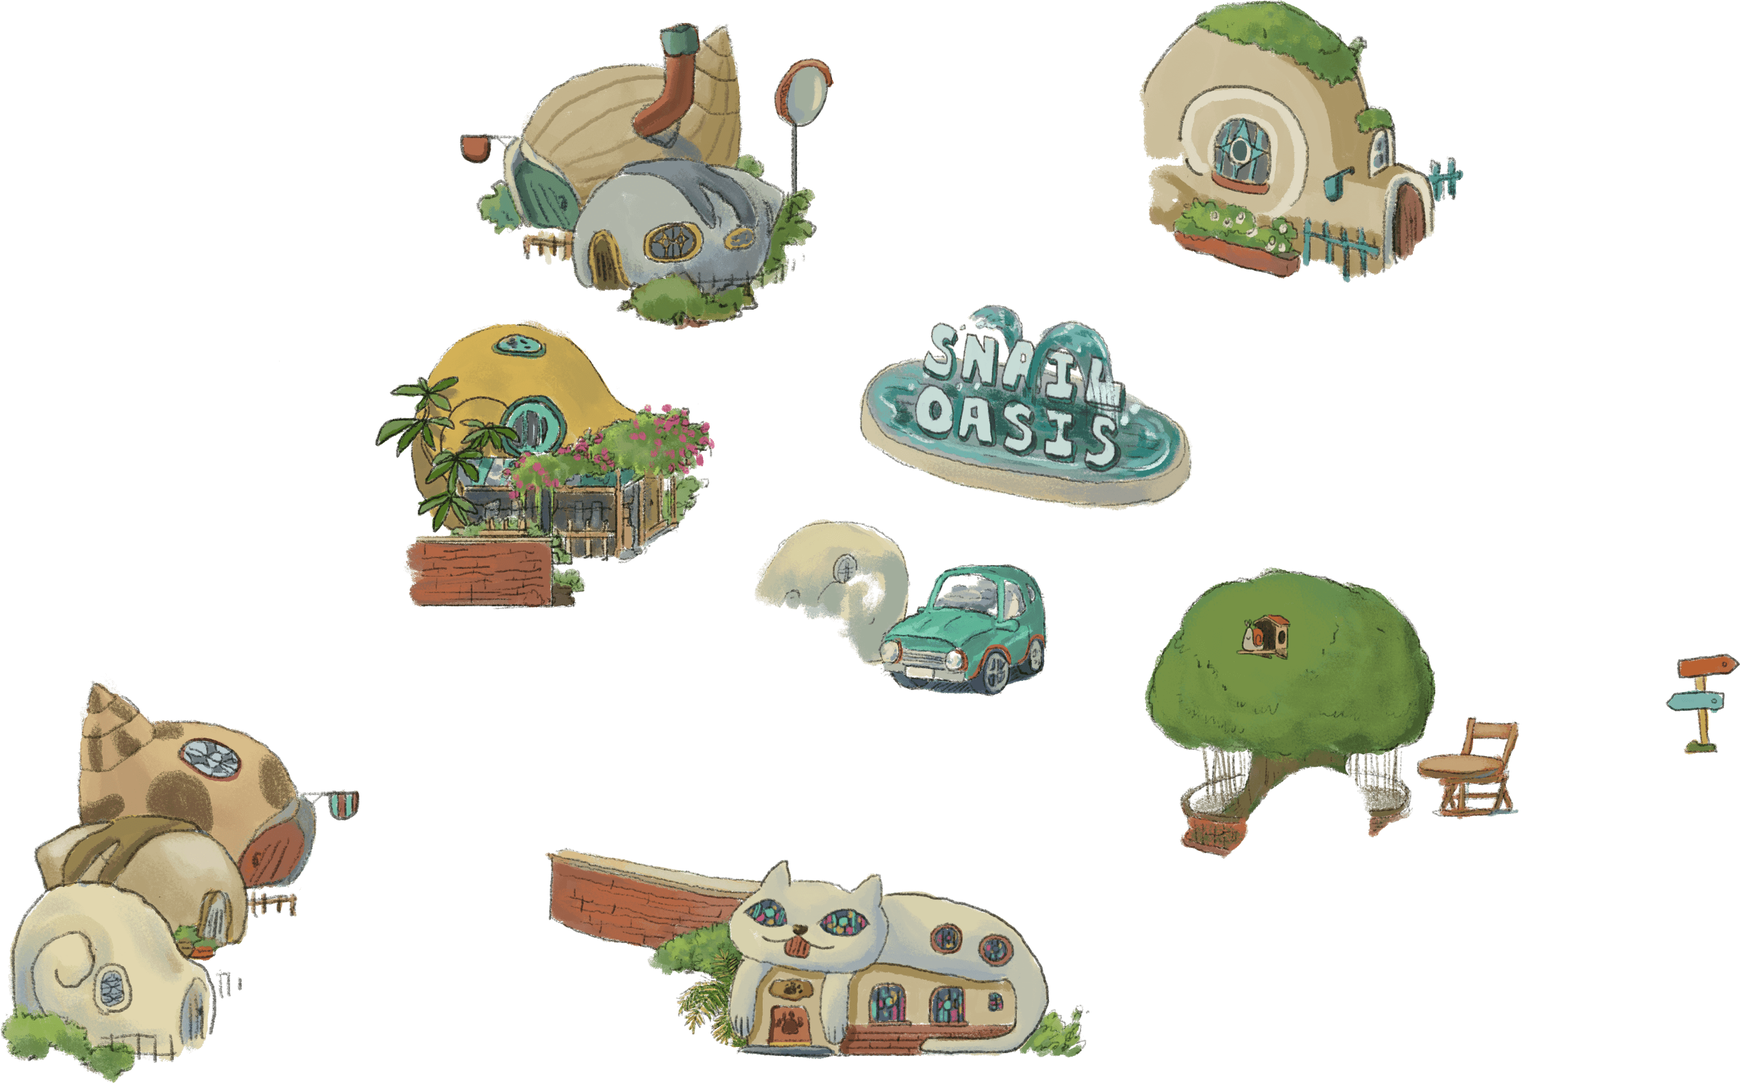
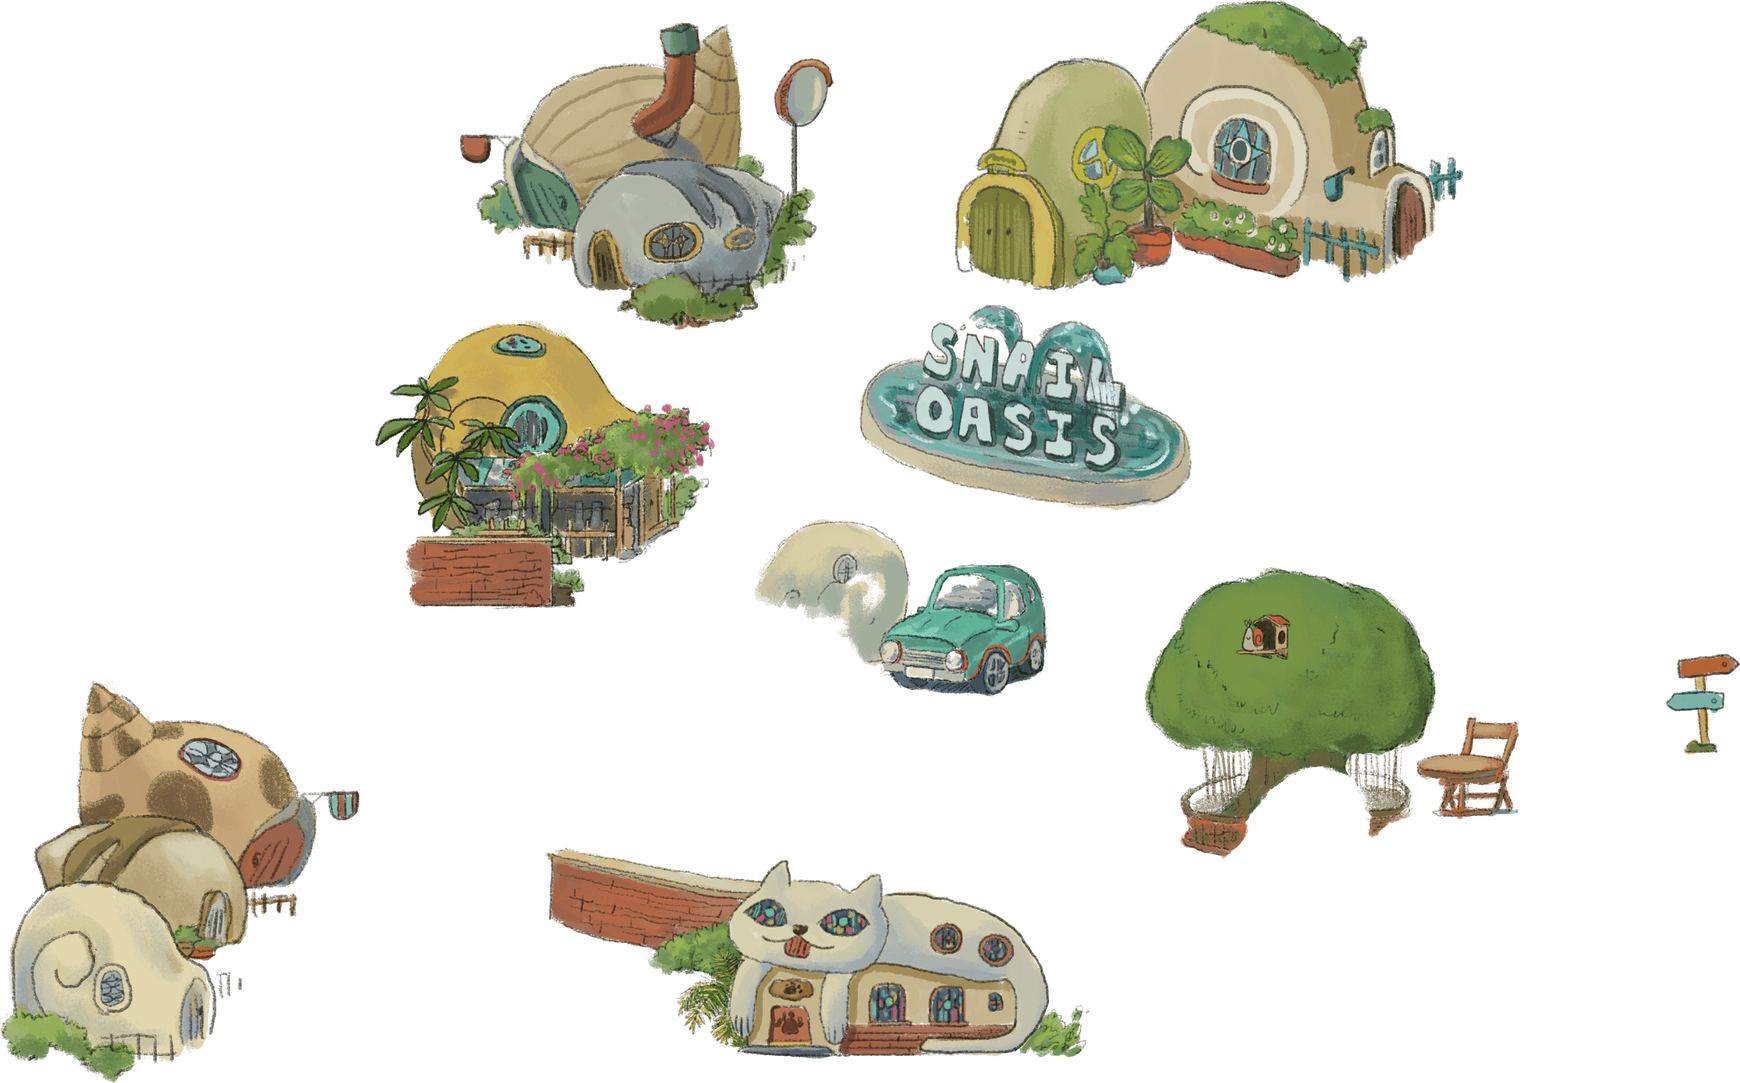
add bookstore, adjust position

Changed region(s): [[0.527, 0.0312, 0.6821, 0.2812]]

diff --git a/dist/main.js b/dist/main.js
@@ -355,7 +355,7 @@ eval("__webpack_require__.r(__webpack_exports__);\n// extracted by mini-css-extr
 /***/ ((__unused_webpack___webpack_module__, __webpack_exports__, __webpack_require__) => {
 
 "use strict";
-eval("__webpack_require__.r(__webpack_exports__);\n/* harmony export */ __webpack_require__.d(__webpack_exports__, {\n/* harmony export */   \"fetchNPC\": () => (/* binding */ fetchNPC),\n/* harmony export */   \"normalHouses\": () => (/* binding */ normalHouses),\n/* harmony export */   \"fetchFurnitures\": () => (/* binding */ fetchFurnitures),\n/* harmony export */   \"trashes\": () => (/* binding */ trashes),\n/* harmony export */   \"fetchGuys\": () => (/* binding */ fetchGuys),\n/* harmony export */   \"fetchAchievements\": () => (/* binding */ fetchAchievements),\n/* harmony export */   \"fetchInfo\": () => (/* binding */ fetchInfo)\n/* harmony export */ });\n/* harmony import */ var axios__WEBPACK_IMPORTED_MODULE_0__ = __webpack_require__(/*! axios */ \"./node_modules/axios/index.js\");\n//load data\n\n\nlet fetchNPC = async () => {\n    let response;\n\n    try {\n        response = await axios__WEBPACK_IMPORTED_MODULE_0__.get(\"src/data/data_npc.csv\", {})\n            console.log(\"async completed get NPC data\")\n    } catch (e) {\n        // catch error\n        throw new Error(e.message)\n    }\n\n    if (response.data){\n        let rows = response.data.split(\"\\n\");\n        let output = [];\n        let keyMap = {};\n        for (let i =0; i<rows[0].length; i++){\n            if (rows[0].split(\",\")[i] !== undefined){\n                keyMap[rows[0].split(\",\")[i].trim()] = i\n                // console.log(\"key: \"+rows[0].split(\",\")[i])\n            }\n        }\n        // console.log(keyMap)\n        rows.shift();\n        rows.forEach((el) => {\n            let d = el.split(\",\");\n            let obj = {\n                name: d[keyMap.name],\n                x: d[keyMap.x],\n                y: d[keyMap.y],\n                mission: d[keyMap.mission]*1,\n                enterGame: d[keyMap.enter_game]*1,\n            };\n            if (d[keyMap.game_speak_n]){\n                obj.gameSpeakN = d[keyMap.game_speak_n]\n            }\n            // 是自己的家裡\n            if (d[keyMap.personal]){\n                obj.personal = true\n            }\n            // 有房子可以進去\n            if (d[keyMap.house]){\n                obj.house = d[keyMap.house]\n            }\n            // 有認養的東西\n            if (d[keyMap.adoptable]){\n                obj.adoptable = d[keyMap.adoptable]*1\n                obj.program = {\n                    title: d[keyMap.program_title],\n                    descrip: d[keyMap.program_descrip],\n                    linkName: d[keyMap.program_linkName],\n                    link: d[keyMap.program_link]\n                }\n                // 給 global all atoptions 這些資料，用來產生徽章\n                let adoptionObj = {}\n                adoptionObj.title = d[keyMap.program_title]\n                adoptionObj.intro = \"認養徽章說明\"\n                vm.$data.adoptions.push(adoptionObj)\n                //\n                // if (d[keyMap.program_subtitle]){\n                //     obj.program.subTitle = d[keyMap.program_subtitle]\n                // }\n                // if (d[keyMap.program_goal]){\n                //     obj.program.goal = d[keyMap.program_goal]\n                // }\n                // if (d[keyMap.program_keywords]){\n                //     let keywords = d[keyMap.program_keywords].trim().split(\"^\")\n                //     obj.program.keywords = keywords\n                // }\n                // // actions\n                // if (d[keyMap.action_titles]){\n                //     let actions = []\n                //     for (let i=0; i<d[keyMap.action_titles].trim().split(\"^\").length; i++){\n                //         let action = {\n                //             imgSrc: `./src/img/${d[keyMap.action_imgs].trim().split(\"^\")[i]}.png`,\n                //             title: d[keyMap.action_titles].trim().split(\"^\")[i],\n                //             intro: d[keyMap.action_intros].trim().split(\"^\")[i]\n                //         }\n                //         actions.push(action)\n                //     }\n                //     obj.program.actions = actions\n                // }\n            }\n            // NPC 遊戲中要講的話\n            if (d[keyMap.game_speaks]){\n                let gameSpeaksArr = []\n                gameSpeaksArr = d[keyMap.game_speaks].trim().split(\"^\")\n                obj.gameSpeaks = gameSpeaksArr\n            }\n            // NPC 遊戲對應的選項內容\n            if (d[keyMap.game_option]){\n                let gameOptionArr = []\n                gameOptionArr = d[keyMap.game_option].trim().split(\"^\")\n                obj.gameOptions = gameOptionArr.map(el=>el*1)\n            }\n            // NPC 遊戲對應的圖片顯示\n            if (d[keyMap.img_show]){\n                let gameImgArr = d[keyMap.img_show].trim().split(\"^\")\n                obj.gameImgs = gameImgArr.map(el=>el*1)\n            }\n            // NPC 講的廢話\n            if (d[keyMap.speaks]){\n                let speaksArr = [];\n                speaksArr = d[keyMap.speaks].trim().split(\"^\")\n                obj.speaks = speaksArr;\n            }\n            // 中間穿插的連結何時顯示\n            if (d[keyMap.link_show]){\n                obj.link = {}\n                let linkShows = d[keyMap.link_show].trim().split(\"^\")\n                obj.link.shows = linkShows.map(el=>el*1)\n                // 切開黏在一起的網址\n                let links = d[keyMap.links].trim().split(\"http\")\n                let filterLinks = links.filter(el=>el !== '')\n                let output = []\n                filterLinks.forEach(el=>output.push(\"http\"+el))\n                obj.link.urls = output\n                //連結顯示文字\n                if (d[keyMap.link_names]){\n                    let linkNames = d[keyMap.link_names].trim().split(\"^\")\n                    obj.link.names = linkNames\n                }\n            }\n            output.push(obj);\n        });\n        // console.log(output)\n        return output\n    }else{\n        return\n    }\n};\n\n//good bad guys\nlet fetchGuys = async ()=>{\n    let response;\n\n    try {\n        response = await axios__WEBPACK_IMPORTED_MODULE_0__.get(\"src/data/data_guys.csv\", {})\n            console.log(\"async completed get guys data\")\n    } catch (e) {\n        // catch error\n        throw new Error(e.message)\n    }\n\n    if (response.data){\n        let rows = response.data.split(\"\\n\");\n        let output = [];\n        let keyMap = {};\n        for (let i =0; i<rows[0].length; i++){\n            if (rows[0].split(\",\")[i] !== undefined){\n                keyMap[rows[0].split(\",\")[i].trim()] = i\n                // console.log(\"key: \"+rows[0].split(\",\")[i])\n            }\n        }\n        rows.shift();\n        rows.forEach((el) => {\n            let d = el.split(\",\");\n            let obj = {\n                name: d[keyMap.name],\n                group: d[keyMap.group]\n            };\n            if (d[keyMap.speaks]){\n                let speaksArr = [];\n                speaksArr = d[keyMap.speaks].trim().split(\"^\")\n                obj.speaks = speaksArr;\n            }\n            output.push(obj)\n            // console.log(obj)\n        })\n        return output\n    }else return\n}\n\n//static houses (background)\nlet normalHouses = [\n    {\n        x: 655,\n        y: 545,\n    },\n    {\n        x: 832,\n        y: 618,\n    },\n];\n\n//all trash\nlet trashes = [\n    {\n        x: -1334,\n        y: -377,\n        id: 0\n    },{\n        x: -877,\n        y: -401,\n        id: 1\n    },{\n        x: -745,\n        y: 559,\n        id: 2\n    },{\n        x: -651,\n        y: 208,\n        id: 3\n    },{\n        x: -248,\n        y: -861,\n        id: 4\n    },{\n        x: 25,\n        y: 401,\n        id: 5\n    },{\n        x: 419,\n        y: 443,\n        id: 6\n    },{\n        x: 549,\n        y: -504,\n        id: 7\n    },{\n        x: 1161,\n        y: -91,\n        id: 8\n    },{\n        x: 1369,\n        y: 422,\n        id: 9\n    }\n]\n\n//info data\nlet fetchInfo = async ()=>{\n    let response;\n\n    try {\n        response = await axios__WEBPACK_IMPORTED_MODULE_0__.get(\"src/data/data_info_npc.csv\", {})\n            console.log(\"async completed get INFO data\")\n    } catch (e) {\n        // catch error\n        throw new Error(e.message)\n    }\n\n    if (response.data){\n        let rows = response.data.split(\"\\n\");\n        let output = [];\n        let keyMap = {};\n        for (let i =0; i<rows[0].length; i++){\n            if (rows[0].split(\",\")[i] !== undefined){\n                keyMap[rows[0].split(\",\")[i].trim()] = i\n            }\n        }\n        rows.shift();\n        rows.forEach((el) => {\n            let d = el.split(\",\");\n            let obj = {\n                title: d[keyMap.title],\n                content: d[keyMap.content]\n            };\n            output.push(obj)\n        })\n        return output\n    }else return\n}\n\n\n//all furnitures\nfunction fetchFurnitures(){\n    let response = [];\n    axios__WEBPACK_IMPORTED_MODULE_0__.get(\"src/data/data_furnitures.csv\")\n        .then(res=>{\n            let rows = res.data.split(\"\\n\")\n            let keyMap = {};\n            for (let i =0; i<rows[0].length; i++){\n                if (rows[0].split(\",\")[i] !== undefined){\n                    keyMap[rows[0].split(\",\")[i].trim()] = i\n                    // console.log(\"key: \"+rows[0].split(\",\")[i])\n                }\n            }\n            rows.shift()\n            rows.forEach(el=>{\n                let d = el.split(\",\");\n                let obj = {\n                    name: d[keyMap.name],\n                    id: d[keyMap.id],\n                    block: d[keyMap.block],\n                    x: d[keyMap.x],\n                    y: d[keyMap.y],\n                    txt: d[keyMap.txt],\n                    price: d[keyMap.price]*1\n                };\n                response.push(obj)\n            })\n            vm.$data.allFurnitures = response\n        })\n        .catch(err=>{\n            throw(err)\n        })\n}\n\n//fetch all achievements data\nfunction fetchAchievements(){\n    axios__WEBPACK_IMPORTED_MODULE_0__.get(\"src/data/data_achievements.csv\")\n        .then(res=>{\n            let rows = res.data.split(\"\\n\")\n            let keyMap = {};\n            for (let i =0; i<rows[0].length; i++){\n                if (rows[0].split(\",\")[i] !== undefined){\n                    keyMap[rows[0].split(\",\")[i].trim()] = i\n                }\n            }\n            rows.shift()\n            rows.forEach(el=>{\n                let d = el.split(\",\");\n                let block = d[keyMap.block]\n                let descrip = d[keyMap.descrip]\n                vm.$data.achievement.descrips[`block${block}`] = descrip\n                let maps = d[keyMap.map].split('^')\n                vm.$data.achievement.map[`block${block}`] = maps\n            })\n        })\n        .catch(err=>{\n            throw(err)\n        })\n}\n\n\n\n//# sourceURL=webpack:///./src/js/modules/data.mjs?");
+eval("__webpack_require__.r(__webpack_exports__);\n/* harmony export */ __webpack_require__.d(__webpack_exports__, {\n/* harmony export */   \"fetchNPC\": () => (/* binding */ fetchNPC),\n/* harmony export */   \"normalHouses\": () => (/* binding */ normalHouses),\n/* harmony export */   \"fetchFurnitures\": () => (/* binding */ fetchFurnitures),\n/* harmony export */   \"trashes\": () => (/* binding */ trashes),\n/* harmony export */   \"fetchGuys\": () => (/* binding */ fetchGuys),\n/* harmony export */   \"fetchAchievements\": () => (/* binding */ fetchAchievements),\n/* harmony export */   \"fetchInfo\": () => (/* binding */ fetchInfo)\n/* harmony export */ });\n/* harmony import */ var axios__WEBPACK_IMPORTED_MODULE_0__ = __webpack_require__(/*! axios */ \"./node_modules/axios/index.js\");\n//load data\n\n\nlet fetchNPC = async () => {\n    let response;\n\n    try {\n        response = await axios__WEBPACK_IMPORTED_MODULE_0__.get(\"src/data/data_npc.csv\", {})\n            console.log(\"async completed get NPC data\")\n    } catch (e) {\n        // catch error\n        throw new Error(e.message)\n    }\n\n    if (response.data){\n        let rows = response.data.split(\"\\n\");\n        let output = [];\n        let keyMap = {};\n        for (let i =0; i<rows[0].length; i++){\n            if (rows[0].split(\",\")[i] !== undefined){\n                keyMap[rows[0].split(\",\")[i].trim()] = i\n                // console.log(\"key: \"+rows[0].split(\",\")[i])\n            }\n        }\n        // console.log(keyMap)\n        rows.shift();\n        rows.forEach((el) => {\n            let d = el.split(\",\");\n            let obj = {\n                name: d[keyMap.name],\n                x: d[keyMap.x],\n                y: d[keyMap.y],\n                mission: d[keyMap.mission]*1,\n                enterGame: d[keyMap.enter_game]*1,\n            };\n            if (d[keyMap.game_speak_n]){\n                obj.gameSpeakN = d[keyMap.game_speak_n]\n            }\n            // 是自己的家裡\n            if (d[keyMap.personal]){\n                obj.personal = true\n            }\n            // 有房子可以進去\n            if (d[keyMap.house]){\n                obj.house = d[keyMap.house]\n            }\n            // 有認養的東西\n            if (d[keyMap.adoptable]){\n                obj.adoptable = d[keyMap.adoptable]*1\n                obj.program = {\n                    title: d[keyMap.program_title],\n                    descrip: d[keyMap.program_descrip],\n                    linkName: d[keyMap.program_linkName],\n                    link: d[keyMap.program_link]\n                }\n                // 給 global all atoptions 這些資料，用來產生徽章\n                let adoptionObj = {}\n                adoptionObj.title = d[keyMap.program_title]\n                adoptionObj.intro = \"認養徽章說明\"\n                vm.$data.adoptions.push(adoptionObj)\n                //\n                // if (d[keyMap.program_subtitle]){\n                //     obj.program.subTitle = d[keyMap.program_subtitle]\n                // }\n                // if (d[keyMap.program_goal]){\n                //     obj.program.goal = d[keyMap.program_goal]\n                // }\n                // if (d[keyMap.program_keywords]){\n                //     let keywords = d[keyMap.program_keywords].trim().split(\"^\")\n                //     obj.program.keywords = keywords\n                // }\n                // // actions\n                // if (d[keyMap.action_titles]){\n                //     let actions = []\n                //     for (let i=0; i<d[keyMap.action_titles].trim().split(\"^\").length; i++){\n                //         let action = {\n                //             imgSrc: `./src/img/${d[keyMap.action_imgs].trim().split(\"^\")[i]}.png`,\n                //             title: d[keyMap.action_titles].trim().split(\"^\")[i],\n                //             intro: d[keyMap.action_intros].trim().split(\"^\")[i]\n                //         }\n                //         actions.push(action)\n                //     }\n                //     obj.program.actions = actions\n                // }\n            }\n            // NPC 遊戲中要講的話\n            if (d[keyMap.game_speaks]){\n                let gameSpeaksArr = []\n                gameSpeaksArr = d[keyMap.game_speaks].trim().split(\"^\")\n                obj.gameSpeaks = gameSpeaksArr\n            }\n            // NPC 遊戲對應的選項內容\n            if (d[keyMap.game_option]){\n                let gameOptionArr = []\n                gameOptionArr = d[keyMap.game_option].trim().split(\"^\")\n                obj.gameOptions = gameOptionArr.map(el=>el*1)\n            }\n            // NPC 遊戲對應的圖片顯示\n            if (d[keyMap.img_show]){\n                let gameImgArr = d[keyMap.img_show].trim().split(\"^\")\n                obj.gameImgs = gameImgArr.map(el=>el*1)\n            }\n            // NPC 講的廢話\n            if (d[keyMap.speaks]){\n                let speaksArr = [];\n                speaksArr = d[keyMap.speaks].trim().split(\"^\")\n                obj.speaks = speaksArr;\n            }\n            // 中間穿插的連結何時顯示\n            if (d[keyMap.link_show]){\n                obj.link = {}\n                let linkShows = d[keyMap.link_show].trim().split(\"^\")\n                obj.link.shows = linkShows.map(el=>el*1)\n                // 切開黏在一起的網址\n                let links = d[keyMap.links].trim().split(\"http\")\n                let filterLinks = links.filter(el=>el !== '')\n                let output = []\n                filterLinks.forEach(el=>output.push(\"http\"+el))\n                obj.link.urls = output\n                //連結顯示文字\n                if (d[keyMap.link_names]){\n                    let linkNames = d[keyMap.link_names].trim().split(\"^\")\n                    obj.link.names = linkNames\n                }\n            }\n            output.push(obj);\n        });\n        // console.log(output)\n        return output\n    }else{\n        return\n    }\n};\n\n//good bad guys\nlet fetchGuys = async ()=>{\n    let response;\n\n    try {\n        response = await axios__WEBPACK_IMPORTED_MODULE_0__.get(\"src/data/data_guys.csv\", {})\n            console.log(\"async completed get guys data\")\n    } catch (e) {\n        // catch error\n        throw new Error(e.message)\n    }\n\n    if (response.data){\n        let rows = response.data.split(\"\\n\");\n        let output = [];\n        let keyMap = {};\n        for (let i =0; i<rows[0].length; i++){\n            if (rows[0].split(\",\")[i] !== undefined){\n                keyMap[rows[0].split(\",\")[i].trim()] = i\n                // console.log(\"key: \"+rows[0].split(\",\")[i])\n            }\n        }\n        rows.shift();\n        rows.forEach((el) => {\n            let d = el.split(\",\");\n            let obj = {\n                name: d[keyMap.name],\n                group: d[keyMap.group]\n            };\n            if (d[keyMap.speaks]){\n                let speaksArr = [];\n                speaksArr = d[keyMap.speaks].trim().split(\"^\")\n                obj.speaks = speaksArr;\n            }\n            output.push(obj)\n            // console.log(obj)\n        })\n        return output\n    }else return\n}\n\n//static houses (background)\nlet normalHouses = [\n    {\n        x: 655,\n        y: 545,\n    },\n    {\n        x: 832,\n        y: 618,\n    },\n];\n\n//all trash\nlet trashes = [\n    {\n        x: -1252,\n        y: -597,\n        id: 0\n    },{\n        x: -877,\n        y: -401,\n        id: 1\n    },{\n        x: -745,\n        y: 559,\n        id: 2\n    },{\n        x: -651,\n        y: 208,\n        id: 3\n    },{\n        x: -76,\n        y: -810,\n        id: 4\n    },{\n        x: 74,\n        y: 401,\n        id: 5\n    },{\n        x: 419,\n        y: 429,\n        id: 6\n    },{\n        x: 549,\n        y: -504,\n        id: 7\n    },{\n        x: 1105,\n        y: -294,\n        id: 8\n    },{\n        x: 1369,\n        y: 422,\n        id: 9\n    }\n]\n\n//info data\nlet fetchInfo = async ()=>{\n    let response;\n\n    try {\n        response = await axios__WEBPACK_IMPORTED_MODULE_0__.get(\"src/data/data_info_npc.csv\", {})\n            console.log(\"async completed get INFO data\")\n    } catch (e) {\n        // catch error\n        throw new Error(e.message)\n    }\n\n    if (response.data){\n        let rows = response.data.split(\"\\n\");\n        let output = [];\n        let keyMap = {};\n        for (let i =0; i<rows[0].length; i++){\n            if (rows[0].split(\",\")[i] !== undefined){\n                keyMap[rows[0].split(\",\")[i].trim()] = i\n            }\n        }\n        rows.shift();\n        rows.forEach((el) => {\n            let d = el.split(\",\");\n            let obj = {\n                title: d[keyMap.title],\n                content: d[keyMap.content]\n            };\n            output.push(obj)\n        })\n        return output\n    }else return\n}\n\n\n//all furnitures\nfunction fetchFurnitures(){\n    let response = [];\n    axios__WEBPACK_IMPORTED_MODULE_0__.get(\"src/data/data_furnitures.csv\")\n        .then(res=>{\n            let rows = res.data.split(\"\\n\")\n            let keyMap = {};\n            for (let i =0; i<rows[0].length; i++){\n                if (rows[0].split(\",\")[i] !== undefined){\n                    keyMap[rows[0].split(\",\")[i].trim()] = i\n                    // console.log(\"key: \"+rows[0].split(\",\")[i])\n                }\n            }\n            rows.shift()\n            rows.forEach(el=>{\n                let d = el.split(\",\");\n                let obj = {\n                    name: d[keyMap.name],\n                    id: d[keyMap.id],\n                    block: d[keyMap.block],\n                    x: d[keyMap.x],\n                    y: d[keyMap.y],\n                    txt: d[keyMap.txt],\n                    price: d[keyMap.price]*1\n                };\n                response.push(obj)\n            })\n            vm.$data.allFurnitures = response\n        })\n        .catch(err=>{\n            throw(err)\n        })\n}\n\n//fetch all achievements data\nfunction fetchAchievements(){\n    axios__WEBPACK_IMPORTED_MODULE_0__.get(\"src/data/data_achievements.csv\")\n        .then(res=>{\n            let rows = res.data.split(\"\\n\")\n            let keyMap = {};\n            for (let i =0; i<rows[0].length; i++){\n                if (rows[0].split(\",\")[i] !== undefined){\n                    keyMap[rows[0].split(\",\")[i].trim()] = i\n                }\n            }\n            rows.shift()\n            rows.forEach(el=>{\n                let d = el.split(\",\");\n                let block = d[keyMap.block]\n                let descrip = d[keyMap.descrip]\n                vm.$data.achievement.descrips[`block${block}`] = descrip\n                let maps = d[keyMap.map].split('^')\n                vm.$data.achievement.map[`block${block}`] = maps\n            })\n        })\n        .catch(err=>{\n            throw(err)\n        })\n}\n\n\n\n//# sourceURL=webpack:///./src/js/modules/data.mjs?");
 
 /***/ }),
 
